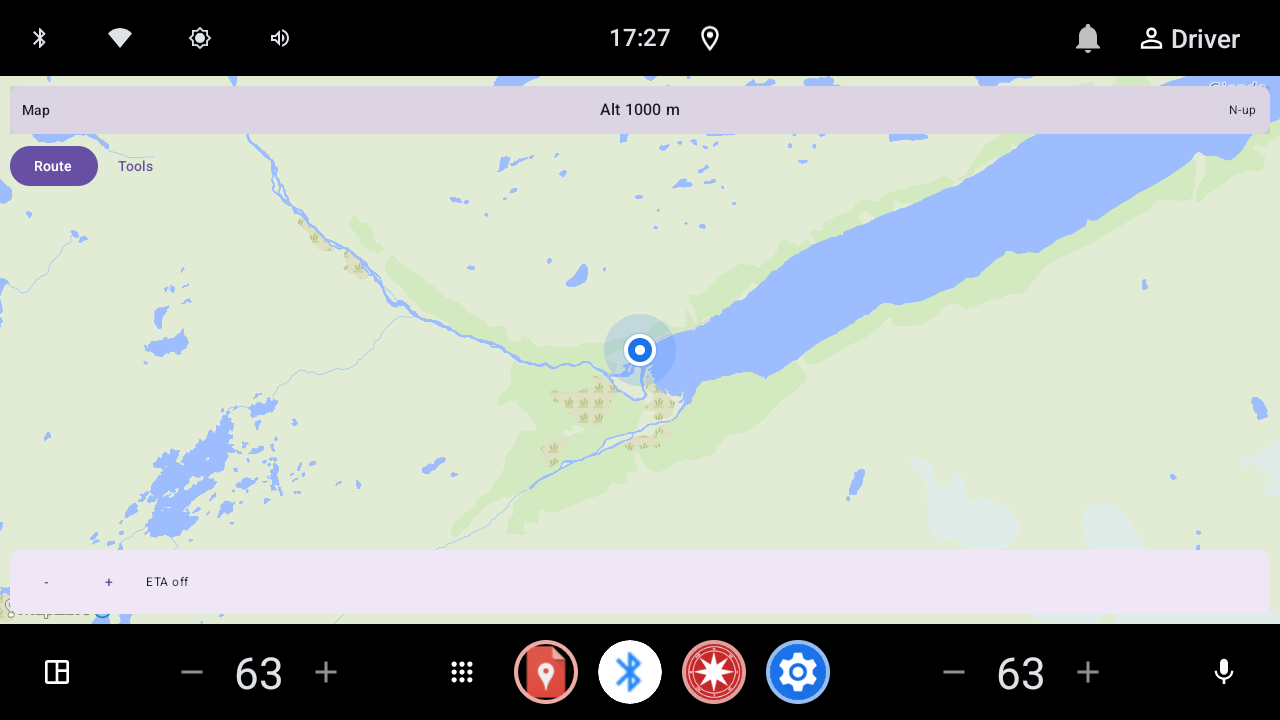
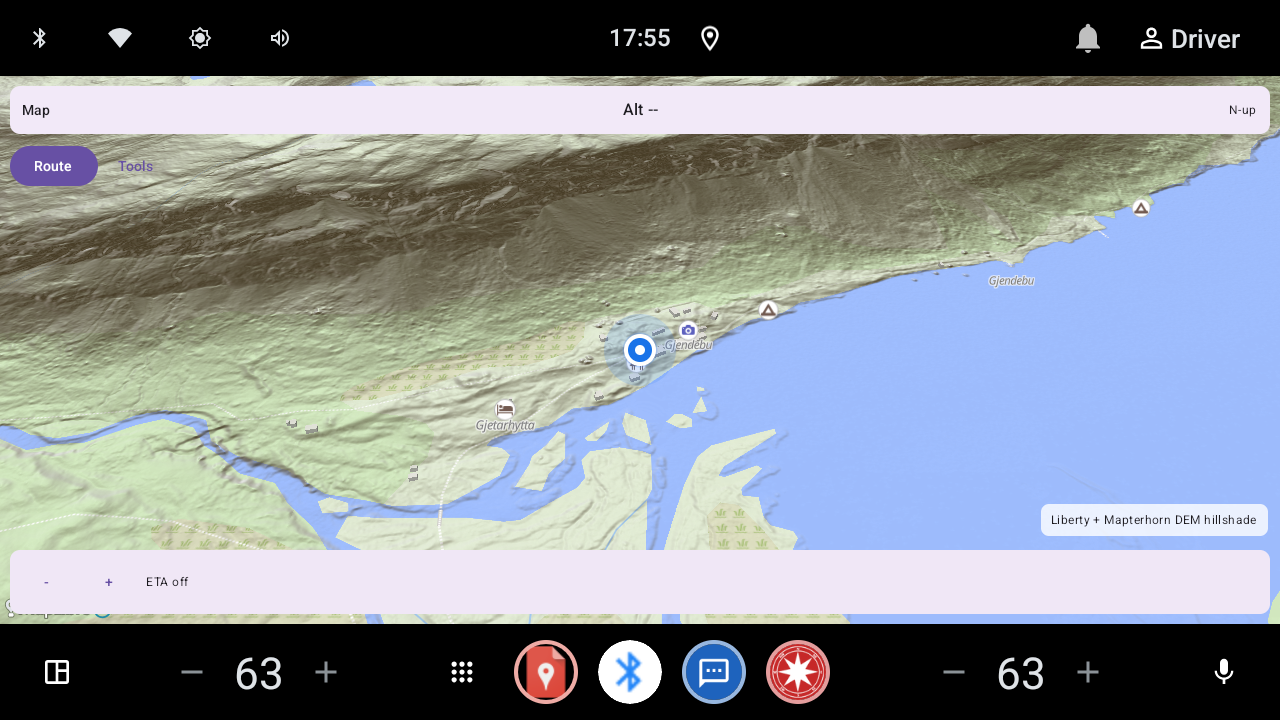
Fix 3D preference surviving camera-idle, refresh basemap docs shots.
Keep live opt-in 3D across MapLibre idle callbacks, use explicit terrarium
DEM tiles JSON, and update allowlisted screenshots / picture gallery cleanup.

diff --git a/app/src/main/java/no/navi/app/MainActivity.kt b/app/src/main/java/no/navi/app/MainActivity.kt
@@ -2455,6 +2455,12 @@ private fun CorridorMapView(
     val styleApplyGen = remember { java.util.concurrent.atomic.AtomicInteger(0) }
     val stateRef = remember { java.util.concurrent.atomic.AtomicReference(state) }
     stateRef.set(state)
+    // Camera-idle / one-shot getMapAsync listeners capture applyResolvedStyle once;
+    // always read the live 3D preference from these refs (not the Compose closure).
+    val prefer3dRef = remember { java.util.concurrent.atomic.AtomicReference(prefer3d) }
+    val vulkanRef = remember { java.util.concurrent.atomic.AtomicReference(vulkanAvailable) }
+    prefer3dRef.set(prefer3d)
+    vulkanRef.set(vulkanAvailable)
 
     fun flattenCamera(map: MapLibreMap) {
         if (map.cameraPosition.tilt <= 0.05) {
@@ -2513,13 +2519,9 @@ private fun CorridorMapView(
     }
 
     fun applyResolvedStyle(map: MapLibreMap, force: Boolean = false) {
-        val applyGen = styleApplyGen.incrementAndGet()
-        val want3d = prefer3d && vulkanAvailable
-        // Flatten immediately (sync) so 3D-off is not left waiting on getStyle.
-        if (!want3d) {
-            flattenCamera(map)
-            NaviMapTestHooks.lastTerrainAttached = false
-        }
+        val livePrefer3d = prefer3dRef.get()
+        val liveVulkan = vulkanRef.get()
+        val want3d = livePrefer3d && liveVulkan
         val latest = stateRef.get()
         // Prefer Compose camera target (pendingCamera) over the live MapLibre
         // camera so style switches are not delayed one idle frame behind state.
@@ -2534,32 +2536,41 @@ private fun CorridorMapView(
             dataDir = dataDir,
             lat = lat,
             lon = lon,
-            prefer3d = prefer3d,
-            vulkanAvailable = vulkanAvailable,
+            prefer3d = livePrefer3d,
+            vulkanAvailable = liveVulkan,
         )
         val sameUri = resolved.styleUri == currentStyleUri.value
         val sameKind = resolved.kind == currentStyleKind.value
-        // Liberty 2D and 3D share the same style URL; OfflineProtomaps URI is
-        // also unchanged when enabling online-DEM 3D. Compare kind too.
+
+        // Coverage-only idle callbacks: if URI/kind unchanged and terrain/tilt
+        // already match, do not bump applyGen (that would cancel an in-flight 3D attach).
         if (!force && sameUri && sameKind) {
             map.getStyle { style ->
-                if (applyGen != styleApplyGen.get()) return@getStyle
                 if (style == null) return@getStyle
                 val attached = MapterhornTerrain.isAttached(style)
-                when {
-                    // Enable or re-apply hillshade/tilt when 3D is requested.
-                    resolved.attachMapterhornTerrain &&
-                        (!attached || map.cameraPosition.tilt < 0.5) -> {
-                        applyTerrainAndPitch(map, style, resolved, applyGen)
-                    }
-                    // Strip leftover hillshade / tilt when 3D is off.
-                    !resolved.attachMapterhornTerrain &&
-                        (attached || map.cameraPosition.tilt > 0.5) -> {
-                        applyTerrainAndPitch(map, style, resolved, applyGen)
-                    }
+                val tilt = map.cameraPosition.tilt
+                val tiltMatches = if (resolved.cameraPitch > 0.0) {
+                    tilt >= resolved.cameraPitch - 1.0
+                } else {
+                    tilt <= 0.5
                 }
+                val terrainMatches = attached == resolved.attachMapterhornTerrain
+                if (terrainMatches && tiltMatches) return@getStyle
+                val applyGen = styleApplyGen.incrementAndGet()
+                if (!want3d) {
+                    flattenCamera(map)
+                    NaviMapTestHooks.lastTerrainAttached = false
+                }
+                applyTerrainAndPitch(map, style, resolved, applyGen)
             }
             return
+        }
+
+        val applyGen = styleApplyGen.incrementAndGet()
+        // Flatten immediately (sync) so 3D-off is not left waiting on getStyle.
+        if (!want3d) {
+            flattenCamera(map)
+            NaviMapTestHooks.lastTerrainAttached = false
         }
         styleReady.value = false
         NaviMapTestHooks.styleReady = false
@@ -2591,7 +2602,7 @@ private fun CorridorMapView(
             if (style == null) {
                 NaviMapTestHooks.lastStyleLoadError = "setStyle returned null (${resolved.styleUri})"
                 onStyleNote("Basemap load failed; falling back to 2D Liberty")
-                if (prefer3d) {
+                if (livePrefer3d) {
                     on3dFailed()
                 }
                 val fallbackUri = BasemapStyleResolver.LIBERTY_URL
@@ -2847,7 +2858,7 @@ private fun CorridorMapView(
 
     LaunchedEffect(state.layerEpoch, styleReady.value, prefer3d, vulkanAvailable) {
         if (!styleReady.value) return@LaunchedEffect
-        val want3d = prefer3d && vulkanAvailable
+        val want3d = prefer3dRef.get() && vulkanRef.get()
         mapView.getMapAsync { map ->
             mapRef = map
             if (!want3d) {

diff --git a/app/src/main/java/no/navi/app/MapterhornTerrain.kt b/app/src/main/java/no/navi/app/MapterhornTerrain.kt
@@ -119,15 +119,20 @@ object MapterhornTerrain {
 
     fun augmentStyleJson(style: JSONObject, demSourceUri: String = TILEJSON_URL): JSONObject {
         val sources = style.getJSONObject("sources")
+        // Prefer `tiles` + `encoding` over `url`. MapLibre Native historically
+        // ignored style-level encoding when only a TileJSON/PMTiles `url` was set
+        // (maplibre-native#3564); explicit tiles keep terrarium decoding correct.
         val dem = JSONObject()
             .put("type", "raster-dem")
             .put("attribution", ATTRIBUTION)
+            .put("encoding", "terrarium")
+            .put("tileSize", 512)
         if (demSourceUri.startsWith("pmtiles://")) {
-            dem.put("url", demSourceUri)
-            dem.put("encoding", "terrarium")
-            dem.put("tileSize", 512)
+            dem.put("tiles", JSONArray().put(demSourceUri))
+        } else if (demSourceUri.contains("tilejson")) {
+            dem.put("tiles", JSONArray().put("https://tiles.mapterhorn.com/{z}/{x}/{y}.webp"))
         } else {
-            dem.put("url", demSourceUri)
+            dem.put("tiles", JSONArray().put(demSourceUri))
         }
         if (!sources.has(TERRAIN_SOURCE_ID)) {
             sources.put(TERRAIN_SOURCE_ID, JSONObject(dem.toString()))

diff --git a/app/src/main/java/no/navi/app/BasemapStyleResolver.kt b/app/src/main/java/no/navi/app/BasemapStyleResolver.kt
@@ -20,14 +20,14 @@ object BasemapStyleResolver {
     const val LIBERTY_URL = "https://tiles.openfreemap.org/styles/liberty"
 
     /**
-     * Viewing tilt applied with Mapterhorn hillshade so relief reads in
-     * perspective. Mesh extrusion (`style.terrain`) is not available on MapLibre
-     * Native — see [MapterhornTerrain].
+     * Opt-in “3D” is Mapterhorn DEM **hillshade** only. MapLibre Native has no
+     * mesh `terrain` / `sky` — see [MapterhornTerrain]. Camera stays flat (no tilt).
      */
-    const val TERRAIN_VIEW_TILT = MapterhornTerrain.VIEW_TILT_DEG
+    @Deprecated("3D no longer tilts the camera; always 0", ReplaceWith("0.0"))
+    const val TERRAIN_VIEW_TILT = 0.0
 
-    @Deprecated("Renamed; use TERRAIN_VIEW_TILT", ReplaceWith("TERRAIN_VIEW_TILT"))
-    const val OPENFREEMAP_3D_PITCH = TERRAIN_VIEW_TILT
+    @Deprecated("Renamed; unused", ReplaceWith("0.0"))
+    const val OPENFREEMAP_3D_PITCH = 0.0
 
     @Deprecated("Hardcoded liberty-3d bearing removed; camera follows user rotation modes")
     const val OPENFREEMAP_3D_BEARING = 0.0

diff --git a/app/src/androidTest/java/no/navi/app/BasemapStyleResolverInstrumentedTest.kt b/app/src/androidTest/java/no/navi/app/BasemapStyleResolverInstrumentedTest.kt
@@ -114,14 +114,15 @@ class BasemapStyleResolverInstrumentedTest {
             "raster-dem",
             sources.getJSONObject(MapterhornTerrain.HILLSHADE_SOURCE_ID).getString("type"),
         )
-        assertEquals(
-            MapterhornTerrain.TILEJSON_URL,
-            sources.getJSONObject(MapterhornTerrain.HILLSHADE_SOURCE_ID).getString("url"),
+        val demSrc = sources.getJSONObject(MapterhornTerrain.HILLSHADE_SOURCE_ID)
+        assertEquals("terrarium", demSrc.getString("encoding"))
+        assertEquals(512, demSrc.getInt("tileSize"))
+        assertTrue(demSrc.has("tiles"))
+        assertTrue(
+            demSrc.getJSONArray("tiles").getString(0).contains("mapterhorn.com"),
         )
         assertTrue(
-            sources.getJSONObject(MapterhornTerrain.HILLSHADE_SOURCE_ID)
-                .getString("attribution")
-                .contains("Mapterhorn"),
+            demSrc.getString("attribution").contains("Mapterhorn"),
         )
         val layers = out.getJSONArray("layers")
         var hillsIdx = -1

diff --git a/docs/pictures.md b/docs/pictures.md
@@ -22,40 +22,20 @@ Idle HUD bars and the Helgøya → Atnbrua route capture live in the
 
 | Scene | Preview |
 |---|---|
-| Town (z11) | ![Town map](images/zoom_z11.png) |
-| Street (z16) — basemap POIs visible | ![Street POIs](images/zoom_z16.png) |
+| Prekestolen base camp, POI's visible. | ![Prekestolen POIs](images/zoom_z16.png) |
 | Helgøya → Atnbrua (eco + 3D on) | ![Route overlay](images/route_map.png) |
-| Corridor route (Navi capture) | ![Navi route](images/navi_route_map.png) |
 
 Prefer `images/terrain/` and recent HUD shots when comparing route visuals.
-Older `route_map.png` / `route_hud_bars.png` copies were ~57% MapLibre empty
-background (`#f8f4f0`) because tiles never loaded — that is the “beige outdated”
-failure mode. Regenerated shots (allowlisted) show Liberty/Protomaps tiles plus
-start/end labels. Pale land fill in Liberty/Protomaps light styles is normal and
-is not the same as empty-map beige.
+Older `route_map.png` copies were ~57% MapLibre empty background (`#f8f4f0`)
+because tiles never loaded — that is the “beige outdated” failure mode.
+Regenerated shots (allowlisted) show Liberty/Protomaps tiles plus start/end
+labels. Pale land fill in Liberty/Protomaps light styles is normal and is not
+the same as empty-map beige.
 
 Start / via / end **place names** are drawn as a Compose map overlay (and a
 MapLibre waypoints layer). Screenshot tests set
 `NaviMapTestHooks.routeStartLabel` / `routeEndLabel` because search chrome is
 often hidden with `hideSearchChrome=true`.
-
-## Drive HUD
-
-Collapsed idle bars: see [README](../README.md#working-app-emulator-screenshots)
-(not duplicated here).
-
-| Scene | Preview |
-|---|---|
-| Tools menu open (region download) | ![Tools menu](images/hud/hud_tools_menu_open.png) |
-| Real Espa→Atnbrufossen route + both bars | ![Route HUD](images/route_hud_bars.png) |
-| Map settings with planned route | ![Map settings](images/hud/route_map_settings_menu.png) |
-| Drive settings with planned route | ![Drive settings](images/hud/route_drive_settings_menu.png) |
-| Tools/Region with planned route | ![Tools + route](images/hud/route_tools_menu_open.png) |
-
-Tools download buttons (basemap PMTiles + terrain DEM) are covered by
-`ToolsDownloadUiInstrumentedTest` (`btn_download_pmtiles`, `btn_download_dem`).
-
-Layout notes: [`hud-layout.md`](hud-layout.md).
 
 ## Moving icons (APRS-style)
 

diff --git a/README.md b/README.md
@@ -219,7 +219,7 @@ basemap. Collapsed top/bottom drive HUD (search chrome hidden):
 ![Idle both bars](docs/images/hud/hud_idle_both_bars.png)
 
 Car route Helgøya → Atnbrua on the Automotive emulator (HUD shows altitude;
-AVD GNSS altitude is often wrong — see note above):
+AVD GNSS altitude is often wrong — see note above). One rest stop is visible:
 
 ![Helgøya to Atnbrua route](docs/images/terrain/hike_eldabu_ramshogda_3d.png)
 
